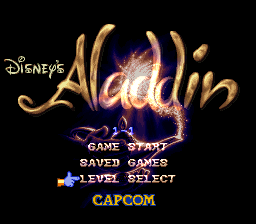
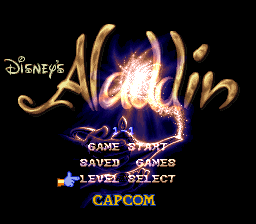
Title menu: SAVED GAMES spaced to twelve tiles so it centres on the screen like the other two lines; menu pictures retaken

Changed region(s): [[0.25, 0.1562, 0.75, 0.9375]]

diff --git a/native/aladdin/src/game/menu_mark.c b/native/aladdin/src/game/menu_mark.c
@@ -17,7 +17,7 @@
 #define LAYOUT_BLANKED 0x80         /* a layout number with this bit blanks its text */
 
 #define LINE_ATTR 0x2400            /* the menu words' tile attributes: palette 1 (the tile is the letter's character code) */
-#define SAVED_GAMES_AT (20 * 32 + 10)   /* the text map word of the second line's first letter: row 20, column 10 */
+#define SAVED_GAMES_AT (20 * 32 + 10)   /* the text map word of the second line's first letter: row 20, column 10; its words two tiles apart so that its twelve tiles centre on the screen's middle like the first and third lines */
 #define LEVEL_SELECT_AT (22 * 32 + 10)  /* the third line's: row 22, column 10 */
 
 /* the mark's seven cells, in words from the choice's place: one in row 0,
@@ -55,7 +55,7 @@ void TitleMenuLineShow(unsigned choice, int blanked)
     if (choice == 0)
         TextLayoutShow(menu_line_layout(0) | (blanked ? LAYOUT_BLANKED : 0));
     else if (choice == 1)
-        line_words(SAVED_GAMES_AT, "SAVED GAMES", blanked);
+        line_words(SAVED_GAMES_AT, "SAVED  GAMES", blanked);
     else
         line_words(LEVEL_SELECT_AT, "LEVEL SELECT", blanked);
 }

diff --git a/docs/aladdin/native/DEPARTURES.md b/docs/aladdin/native/DEPARTURES.md
@@ -87,6 +87,6 @@ Not an accident of the original but a change Jeff asked for: "Get rid of the opt
 
 - **Where:** `game/title_task.c` (the menu's set-up and its press), `game/menu_mark.c` (`TitleMenuLineShow`: the lines drawn and blanked by the mark's blink), the options screen's task and tables removed (`game/options.c`, `data/game_tables.c`, the task entry, the task's state fields).
 - **What the original does:** the menu has GAME START, PASS WORD and OPTIONS (text layouts $0E, $10, $12). A press on the second starts the password screen, on the third the options screen (the control setting, the sound test, stereo or monaural, and the cheat code on pad 2 that turns on the title's level select).
-- **What the native game does:** the words are the same text-layer tiles in the same palette (a tile is the letter's character code, as the original's three words are: the cartridge's text tiles hold all the letters), SAVED GAMES at row 20 and LEVEL SELECT at row 22, from column 10 (the original's PASS WORD and GAME START start at column 11 and are 9 and 10 letters wide; the new ones are 11 and 12 wide, so they start one column left to keep the same centres). The mark moves, blinks and makes its sound on all three as before; a press on SAVED GAMES or LEVEL SELECT does nothing (no sound, no fade, no screen). A press on GAME START starts the game as before. Nothing sets the three kept option bytes now: they stay at their power-on values, 0 (the first, the control setting, is the only one play reads; the third is the progress byte the level end and the ending set), so play reads what the original's defaults gave.
+- **What the native game does:** the words are the same text-layer tiles in the same palette (a tile is the letter's character code, as the original's three words are: the cartridge's text tiles hold all the letters), SAVED GAMES at row 20 and LEVEL SELECT at row 22, from column 10 (the original's PASS WORD and GAME START start at column 11 and are 9 and 10 letters wide; the new ones are 12 wide, so they start one column left to keep the same centre, the screen's middle; SAVED GAMES is 11 letters, which cannot centre on whole tiles, so its two words stand two tiles apart, 12 tiles in all). The mark moves, blinks and makes its sound on all three as before; a press on SAVED GAMES or LEVEL SELECT does nothing (no sound, no fade, no screen). A press on GAME START starts the game as before. Nothing sets the three kept option bytes now: they stay at their power-on values, 0 (the first, the control setting, is the only one play reads; the third is the progress byte the level end and the ending set), so play reads what the original's defaults gave.
 - **What went with it:** the title's level select (`game/level_select.c`, R held with a direction) is still there and still waits for the cheat byte; the options screen's cheat code was the only way to set it, so the developer's `ALADDIN_DEV_CHEAT=1` (`system/dev_start.c`) is now the only way. The plays' prefix changed for that (CHECK.md, "Plays by keys"). `game/password_screen.c` and its task entry are left in the tree, reached from nowhere (nothing else started it); the SAVED GAMES to come may use them or replace them.
 - **The check's expected difference:** only the pictures that show the title menu (the second and third lines' words); results in CHECK.md, "The title menu without the options screen". The traces `same.sh` compares do not hold the menu's pictures, so it shows no difference at all.
